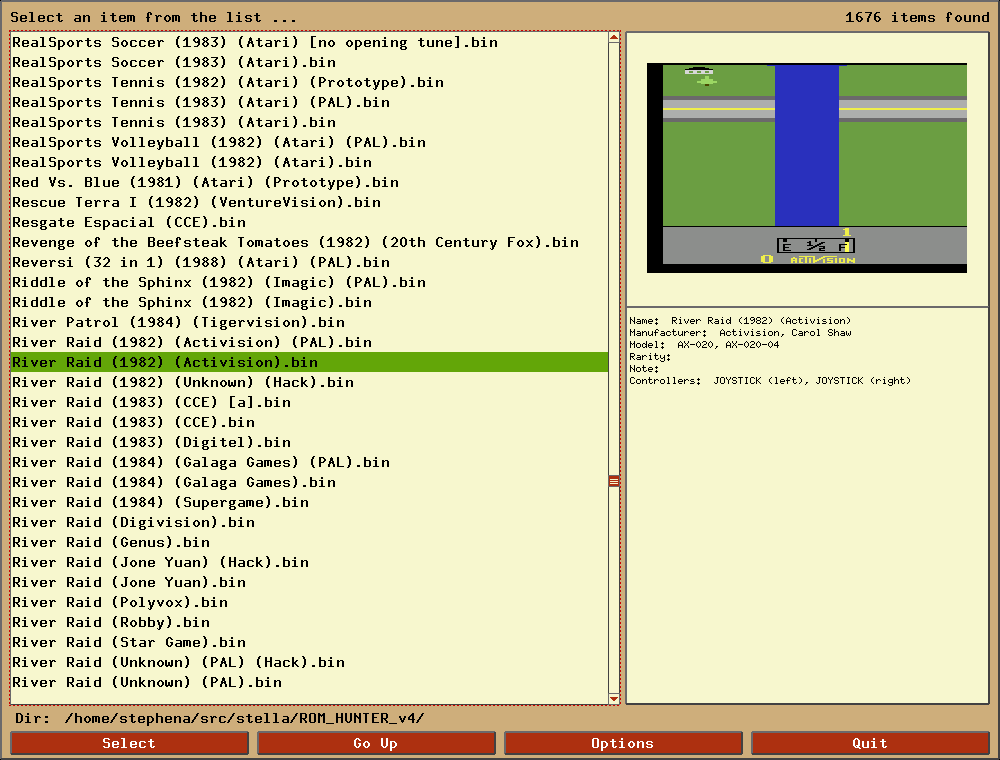
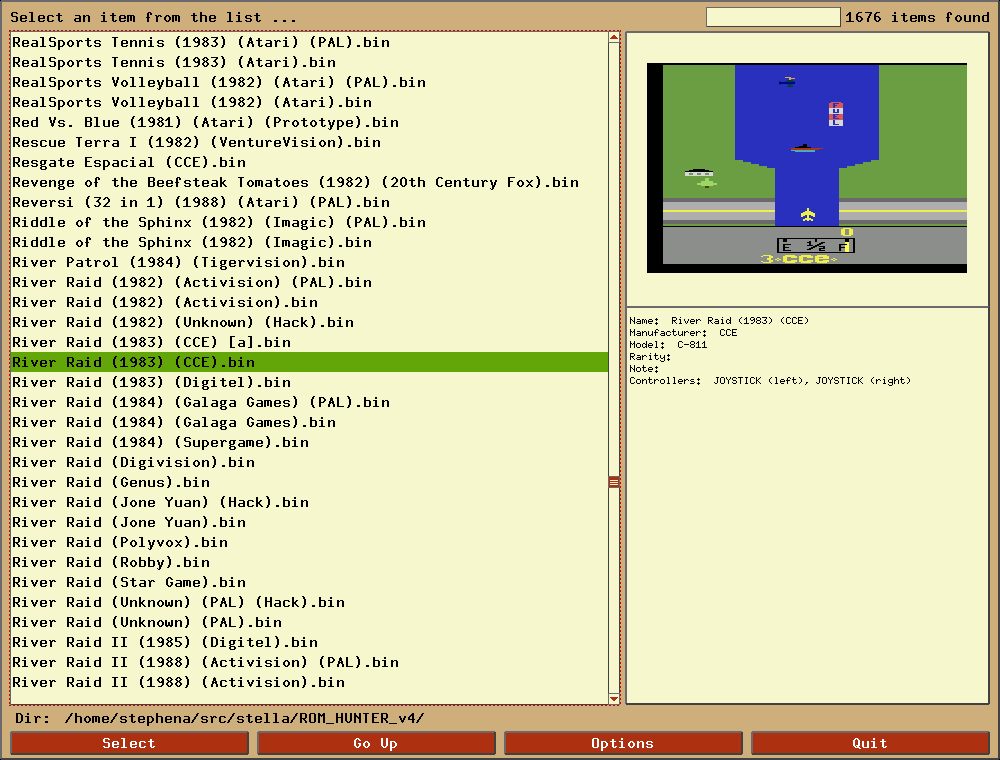
Added pattern matching textbox to the ROM launcher.  This works in addition to the previously added FilterOptions (that code filtered by filename extension, while this further filters by an actual pattern). This is by request of several people in the AtariAge forums).

diff --git a/stella/docs/index.html b/stella/docs/index.html
@@ -2033,6 +2033,16 @@
 	<p>ROM info viewer in 2x mode, UI sized 1400x900, large launcher font:</p>
 	<img src="graphics/rominfo_2x_small.png">
 
+	<p>The text box in the upper right corner can be used to narrow down the
+	results in the ROM listing.  When this box is empty, all files are shown
+	(subject to the restrictions from the filtering option, explained below).
+	Typing characters here where show only those files that match that
+	pattern.  For example, typing 'Activision' will show only files that
+	contain the word 'Activision' in their name.  This is very useful for
+	quickly finding a group of related ROMs.  Note that the search is not
+	case sensitive, so you don't need to worry about capital or lower-case
+	letters.</p>
+
 	<p>The ROM launcher also contains a context menu, selected by clicking the
 	right mouse button anywhere in the current window.  This context menu
 	contains the following items:</p>
